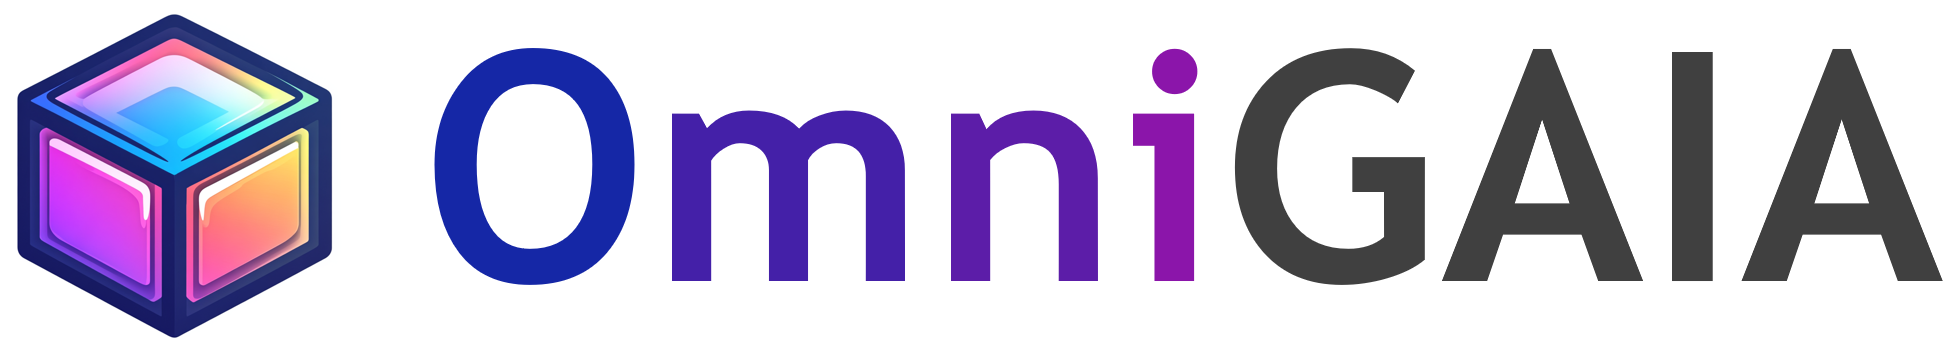
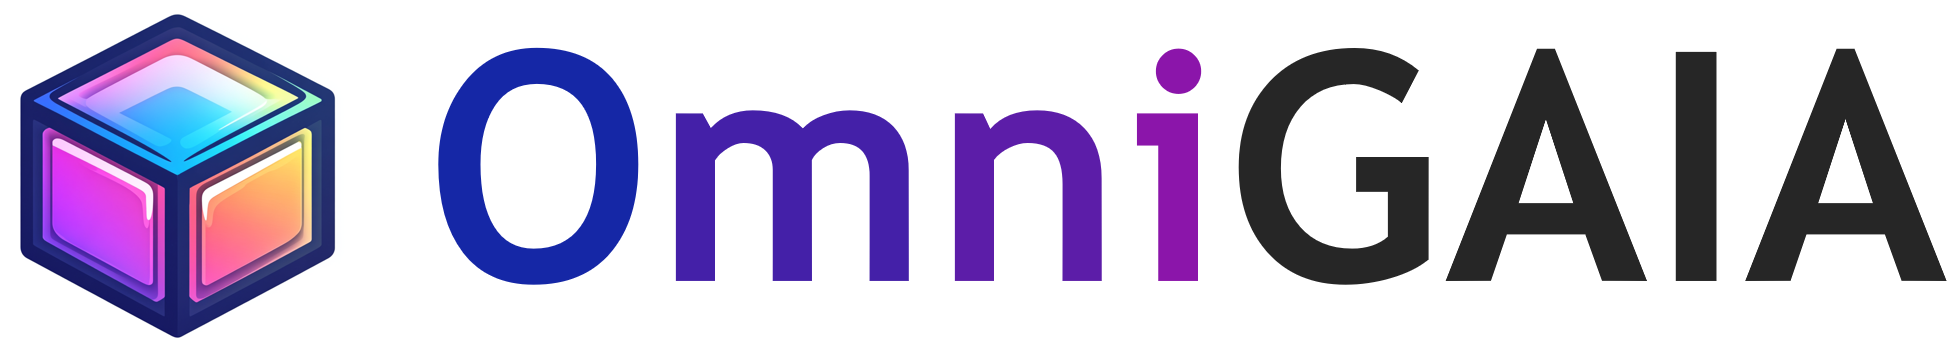
Update README.md

diff --git a/README.md b/README.md
@@ -1,6 +1,6 @@
 <!-- <h2 align="center">OmniGAIA: Towards Native Omni-Modal AI Agents</a></h2> -->
 <h1 align="center">
-  <img src="assets/omnigaia_title.png" alt="OmniGAIA Title" width="200"/> <br>Towards Native Omni-Modal AI Agents
+  <img src="assets/omnigaia_title.png" alt="OmniGAIA Title" width="215"/><br>Towards Native Omni-Modal AI Agents
 </h1>
 
 <p align="center"><i>The OmniGAIA Benchmark and the OmniAtlas Foundation Agents</i></p>
